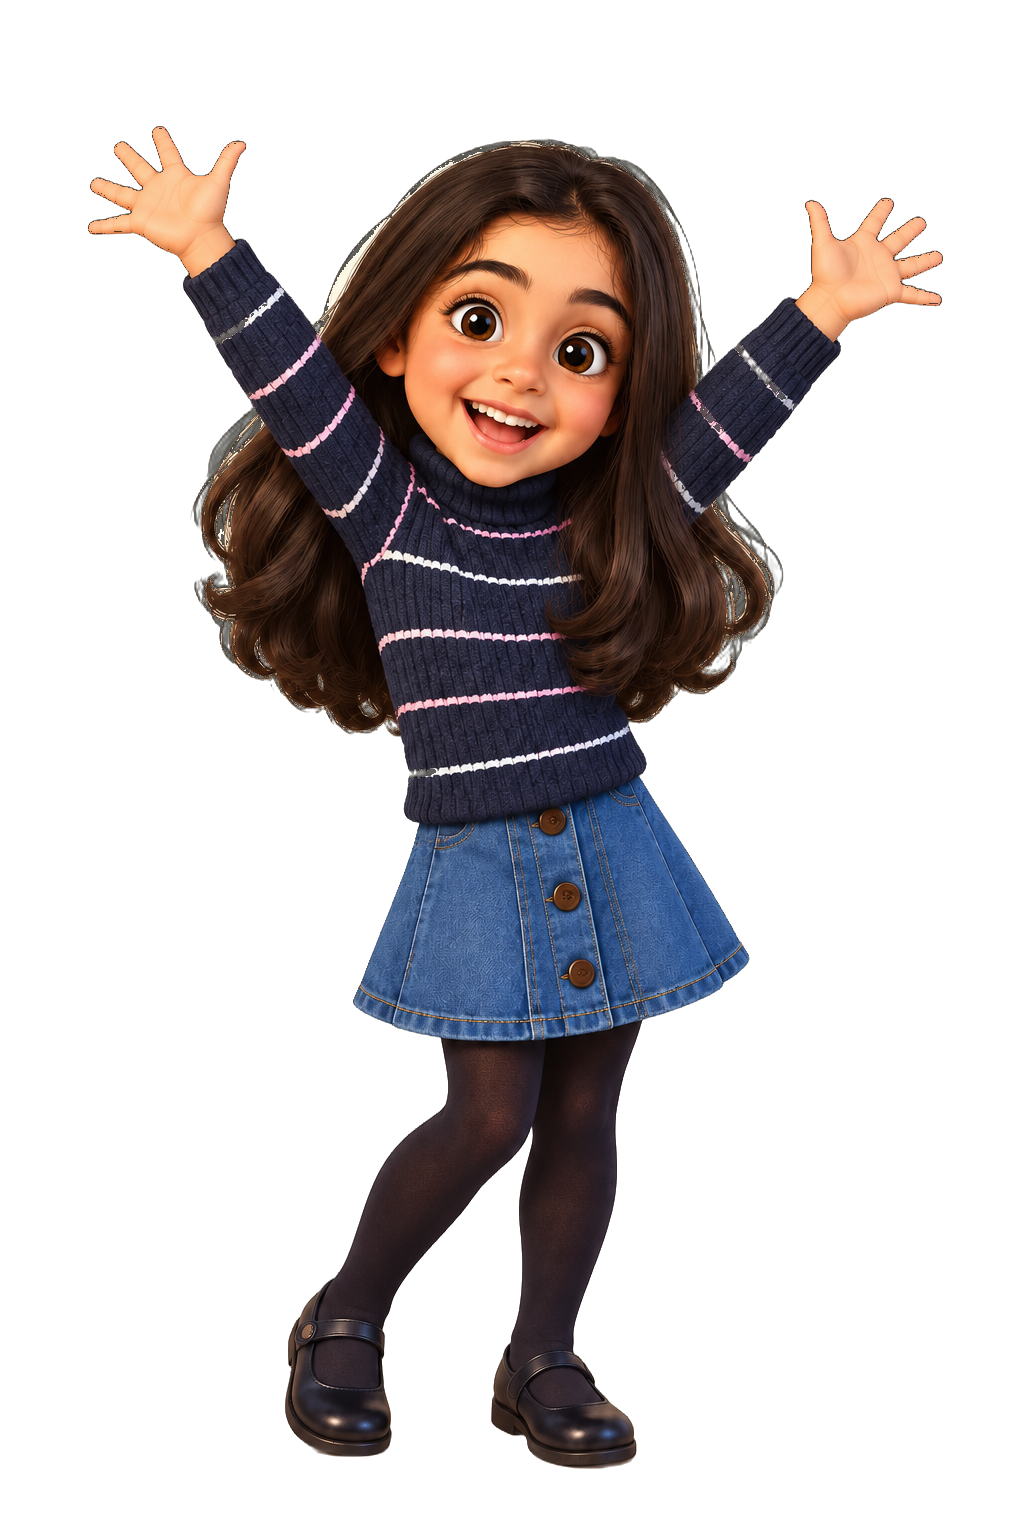
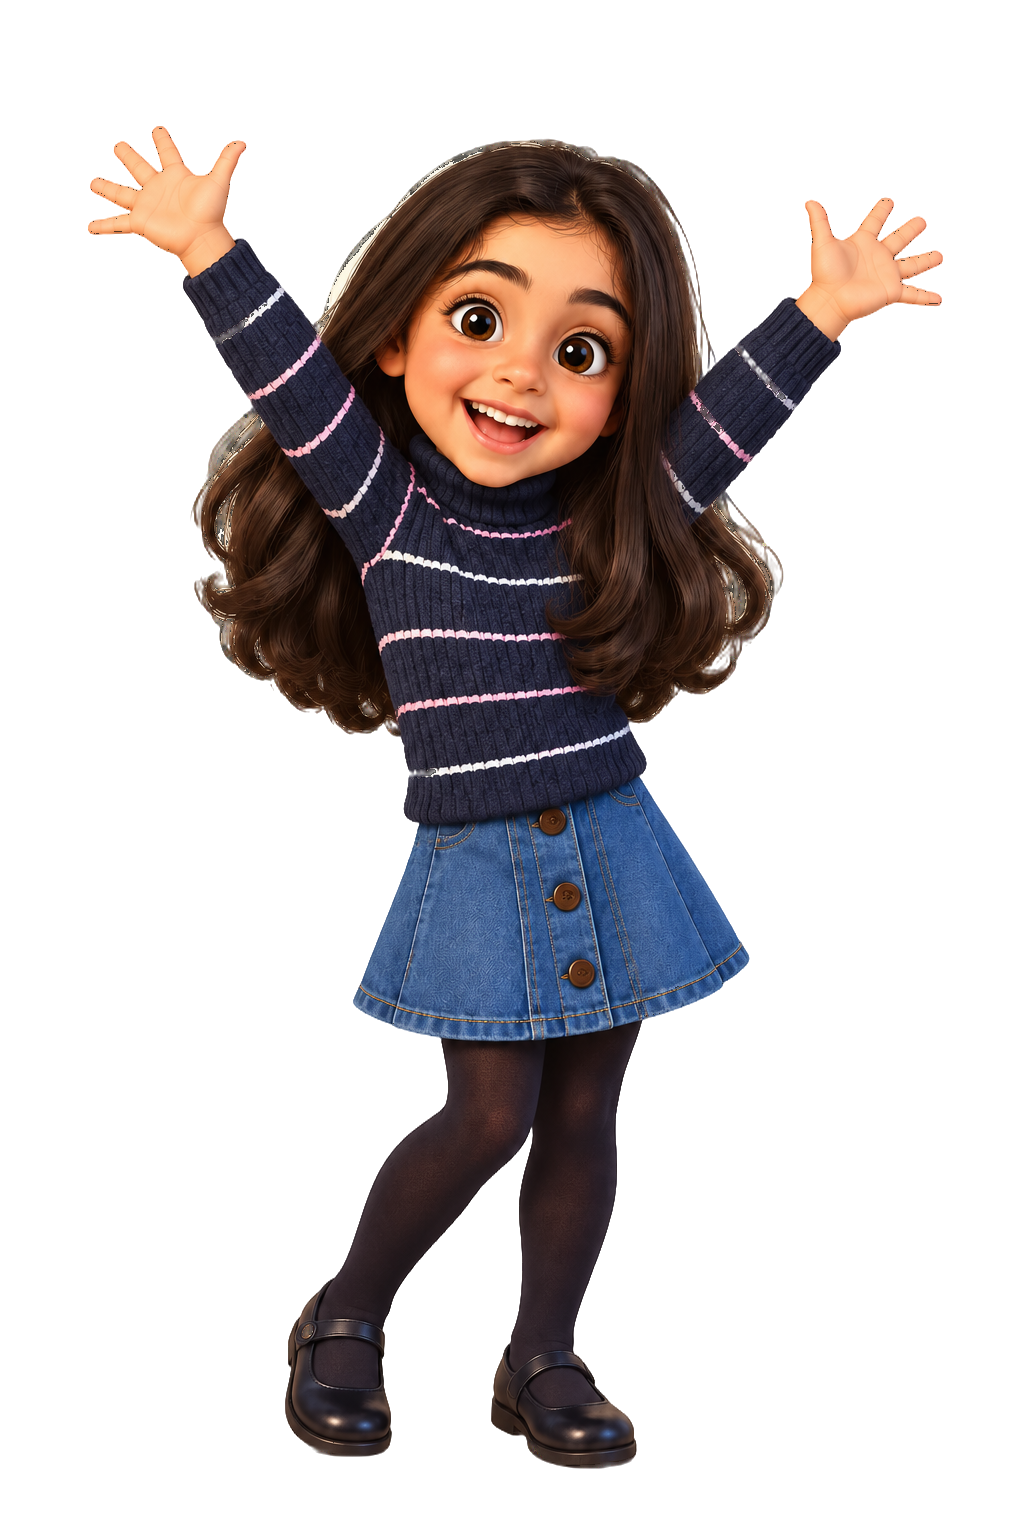
Tamara: clean hair edges (colour bleed), soft moonlight stage instead of a frame
Claude-Session: https://claude.ai/code/session_0114Uimhvuf5muvWEqvsNGmQ

diff --git a/.claude/skills/yt-kids-song/templates/kids-engine.html b/.claude/skills/yt-kids-song/templates/kids-engine.html
@@ -111,22 +111,22 @@ function poseAt(t) {
   return { pose: i % 2 ? 'sing' : 'open', since: l.start - 0.25 };
 }
 
-// Tamara's stage: a light card behind the photo puppet (hides the light fringe around her hair, frames her)
-function stageCard(t) {
-  const x = 60, y = 96, w = 720, h = 960, r = 44;
+// Tamara's stage: soft moonlight around her (no frame, no edges): a glow behind her that fades into the sky,
+// a pool of light at her feet and a few sparkles drifting up. Sam rejected a framed card as "cheap".
+function stageGlow(t) {
   c.save();
-  c.shadowColor = 'rgba(0,0,0,0.35)'; c.shadowBlur = 40; c.shadowOffsetY = 12;
-  const g = c.createLinearGradient(0, y, 0, y + h); g.addColorStop(0, '#FFF7EC'); g.addColorStop(0.65, '#FDEBF3'); g.addColorStop(1, '#F3E3FA');
-  c.fillStyle = g; c.beginPath(); c.roundRect(x, y, w, h, r); c.fill();
-  c.shadowColor = 'transparent';
-  c.save(); c.beginPath(); c.roundRect(x, y, w, h, r); c.clip();
-  const sp = c.createRadialGradient(430, 520, 40, 430, 520, 520); sp.addColorStop(0, 'rgba(255,255,255,0.75)'); sp.addColorStop(1, 'rgba(255,255,255,0)');
-  c.fillStyle = sp; c.fillRect(x, y, w, h); // soft spotlight
-  c.fillStyle = 'rgba(214,188,236,0.45)'; c.beginPath(); c.ellipse(430, y + h + 40, 420, 120, 0, 0, Math.PI * 2); c.fill(); // floor
-  for (let i = 0; i < 14; i++) { const sx = x + 40 + rand(i + 300) * (w - 80), sy = y + 40 + rand(i + 400) * (h * 0.55);
-    c.fillStyle = ['#FFD43B', '#FF8FB8', '#9AD7FF'][i % 3]; c.globalAlpha = 0.35 + 0.25 * Math.sin(t * 1.5 + i); star(sx, sy, 7 + (i % 3) * 3); }
-  c.restore();
-  c.globalAlpha = 1; c.strokeStyle = 'rgba(255,255,255,0.9)'; c.lineWidth = 6; c.beginPath(); c.roundRect(x, y, w, h, r); c.stroke();
+  const pulse = 1 + 0.03 * Math.sin(t * 0.9);
+  let g = c.createRadialGradient(430, 470, 30, 430, 520, 560 * pulse);
+  g.addColorStop(0, 'rgba(255,236,214,0.30)'); g.addColorStop(0.35, 'rgba(196,182,255,0.18)'); g.addColorStop(1, 'rgba(120,110,220,0)');
+  c.fillStyle = g; c.fillRect(0, 0, 1000, 1080);
+  g = c.createRadialGradient(430, 1035, 10, 430, 1035, 330);
+  g.addColorStop(0, 'rgba(255,240,220,0.42)'); g.addColorStop(0.5, 'rgba(210,195,255,0.16)'); g.addColorStop(1, 'rgba(210,195,255,0)');
+  c.save(); c.translate(430, 1035); c.scale(1, 0.2); c.translate(-430, -1035); c.fillStyle = g; c.beginPath(); c.arc(430, 1035, 330, 0, Math.PI * 2); c.fill(); c.restore();
+  for (let i = 0; i < 12; i++) { // sparkles drifting up around her
+    const ph = (t * 0.06 + rand(i + 700)) % 1, x = 430 + (rand(i + 710) - 0.5) * 620 + Math.sin(t * 0.7 + i) * 14, y = 1040 - ph * 900;
+    c.globalAlpha = Math.sin(ph * Math.PI) * (0.45 + 0.35 * Math.sin(t * 3 + i)); c.fillStyle = i % 3 ? '#FFF3D6' : '#E8DEFF';
+    star(x, y, 3 + (i % 3) * 2);
+  }
   c.restore();
 }
 
@@ -152,7 +152,7 @@ function draw(t) {
   const p = poseAt(t);
   const mouth = tamaraMouth(WORDS, t);
   if (S.host === 'photo') {
-    stageCard(t); // her real picture as a puppet (tamara-photo.js)
+    stageGlow(t); // her real picture as a puppet (tamara-photo.js)
     c.save(); c.translate(430, 1035); c.scale(0.59, 0.59);
     const q = photoPoseAt(t), prev = photoPoseAt(q.since - 0.02), k = ease((t - q.since) / 0.6);
     const on = !!q.dance, was = !!prev.dance;

diff --git a/youtube/kids-songs/2026-10-09-phases-of-the-moon/video.html b/youtube/kids-songs/2026-10-09-phases-of-the-moon/video.html
@@ -111,22 +111,22 @@ function poseAt(t) {
   return { pose: i % 2 ? 'sing' : 'open', since: l.start - 0.25 };
 }
 
-// Tamara's stage: a light card behind the photo puppet (hides the light fringe around her hair, frames her)
-function stageCard(t) {
-  const x = 60, y = 96, w = 720, h = 960, r = 44;
+// Tamara's stage: soft moonlight around her (no frame, no edges): a glow behind her that fades into the sky,
+// a pool of light at her feet and a few sparkles drifting up. Sam rejected a framed card as "cheap".
+function stageGlow(t) {
   c.save();
-  c.shadowColor = 'rgba(0,0,0,0.35)'; c.shadowBlur = 40; c.shadowOffsetY = 12;
-  const g = c.createLinearGradient(0, y, 0, y + h); g.addColorStop(0, '#FFF7EC'); g.addColorStop(0.65, '#FDEBF3'); g.addColorStop(1, '#F3E3FA');
-  c.fillStyle = g; c.beginPath(); c.roundRect(x, y, w, h, r); c.fill();
-  c.shadowColor = 'transparent';
-  c.save(); c.beginPath(); c.roundRect(x, y, w, h, r); c.clip();
-  const sp = c.createRadialGradient(430, 520, 40, 430, 520, 520); sp.addColorStop(0, 'rgba(255,255,255,0.75)'); sp.addColorStop(1, 'rgba(255,255,255,0)');
-  c.fillStyle = sp; c.fillRect(x, y, w, h); // soft spotlight
-  c.fillStyle = 'rgba(214,188,236,0.45)'; c.beginPath(); c.ellipse(430, y + h + 40, 420, 120, 0, 0, Math.PI * 2); c.fill(); // floor
-  for (let i = 0; i < 14; i++) { const sx = x + 40 + rand(i + 300) * (w - 80), sy = y + 40 + rand(i + 400) * (h * 0.55);
-    c.fillStyle = ['#FFD43B', '#FF8FB8', '#9AD7FF'][i % 3]; c.globalAlpha = 0.35 + 0.25 * Math.sin(t * 1.5 + i); star(sx, sy, 7 + (i % 3) * 3); }
-  c.restore();
-  c.globalAlpha = 1; c.strokeStyle = 'rgba(255,255,255,0.9)'; c.lineWidth = 6; c.beginPath(); c.roundRect(x, y, w, h, r); c.stroke();
+  const pulse = 1 + 0.03 * Math.sin(t * 0.9);
+  let g = c.createRadialGradient(430, 470, 30, 430, 520, 560 * pulse);
+  g.addColorStop(0, 'rgba(255,236,214,0.30)'); g.addColorStop(0.35, 'rgba(196,182,255,0.18)'); g.addColorStop(1, 'rgba(120,110,220,0)');
+  c.fillStyle = g; c.fillRect(0, 0, 1000, 1080);
+  g = c.createRadialGradient(430, 1035, 10, 430, 1035, 330);
+  g.addColorStop(0, 'rgba(255,240,220,0.42)'); g.addColorStop(0.5, 'rgba(210,195,255,0.16)'); g.addColorStop(1, 'rgba(210,195,255,0)');
+  c.save(); c.translate(430, 1035); c.scale(1, 0.2); c.translate(-430, -1035); c.fillStyle = g; c.beginPath(); c.arc(430, 1035, 330, 0, Math.PI * 2); c.fill(); c.restore();
+  for (let i = 0; i < 12; i++) { // sparkles drifting up around her
+    const ph = (t * 0.06 + rand(i + 700)) % 1, x = 430 + (rand(i + 710) - 0.5) * 620 + Math.sin(t * 0.7 + i) * 14, y = 1040 - ph * 900;
+    c.globalAlpha = Math.sin(ph * Math.PI) * (0.45 + 0.35 * Math.sin(t * 3 + i)); c.fillStyle = i % 3 ? '#FFF3D6' : '#E8DEFF';
+    star(x, y, 3 + (i % 3) * 2);
+  }
   c.restore();
 }
 
@@ -152,7 +152,7 @@ function draw(t) {
   const p = poseAt(t);
   const mouth = tamaraMouth(WORDS, t);
   if (S.host === 'photo') {
-    stageCard(t); // her real picture as a puppet (tamara-photo.js)
+    stageGlow(t); // her real picture as a puppet (tamara-photo.js)
     c.save(); c.translate(430, 1035); c.scale(0.59, 0.59);
     const q = photoPoseAt(t), prev = photoPoseAt(q.since - 0.02), k = ease((t - q.since) / 0.6);
     const on = !!q.dance, was = !!prev.dance;

diff --git a/.claude/skills/yt-kids-song/scripts/fix_edges.py b/.claude/skills/yt-kids-song/scripts/fix_edges.py
@@ -1,0 +1,24 @@
+#!/usr/bin/env python3
+"""Remove the light background fringe from cutouts: every semi-transparent edge pixel takes its colour from the
+opaque pixels next to it (colour bleed: blur(rgb*alpha)/blur(alpha)), so hair edges stay dark on any background.
+usage: fix_edges.py <cutout.png> [...]   (edits in place)"""
+import sys
+import numpy as np
+from PIL import Image, ImageFilter
+for f in sys.argv[1:]:
+    im = Image.open(f).convert("RGBA"); a = np.asarray(im).astype(np.float32)
+    al = a[..., 3:] / 255
+    solid = (al > 0.95).astype(np.float32)
+    num = np.zeros_like(a[..., :3]); den = np.zeros_like(al)
+    for r in (2, 5, 10):  # wider radii fill pixels further from solid ones
+        pr = Image.fromarray(np.uint8(np.clip(a[..., :3] * solid, 0, 255)))
+        pw = Image.fromarray(np.uint8(solid[..., 0] * 255))
+        n = np.asarray(pr.filter(ImageFilter.GaussianBlur(r))).astype(np.float32)
+        d = np.asarray(pw.filter(ImageFilter.GaussianBlur(r))).astype(np.float32)[..., None] / 255
+        take = (den < 0.02) & (d >= 0.02)
+        num = np.where(take, n, num); den = np.where(take, d, den)
+    bleed = num / np.maximum(den, 1e-3)
+    edge = (al < 0.95)
+    rgb = np.where(edge, bleed, a[..., :3])
+    out = np.concatenate([np.clip(rgb, 0, 255), a[..., 3:]], -1).astype(np.uint8)
+    Image.fromarray(out).save(f); print("fixed", f)

diff --git a/.claude/skills/yt-kids-song/SKILL.md b/.claude/skills/yt-kids-song/SKILL.md
@@ -47,7 +47,7 @@ Poses: `youtube/kids-songs/characters/tamara/` holds Sam's pictures (sing, point
 - `sing2` + `sing2-mid` / `sing2-open` / `sing2-eyes`: the same picture with a half-open mouth, open mouth and closed eyes. Default pose for sung lines: real lip sync (mouth area blended between the three by the sung words) and real blinks.
 - gestures: `book`, `hello`, `point` (up), `pointL`, `pointR`, `shrug`, `think`, `count`, `thumbs`, `cheer`, `clap`, `wave`, `sleep`
 - dance flipbook: `dance1`–`dance8` (from Sam's dance sheet; `jump` is not used, Sam said it looked too small); in choruses and instrumental gaps the engine switches to the next move every 2 beats.
-- Tamara stands on a light rounded card (`stageCard()` in the engine, left side): it hides the light fringe around her hair on the dark sky. Keep it for photo-puppet videos.
+- Stage: soft moonlight glow + light pool + drifting sparkles behind her (`stageGlow()`); Sam rejected a framed card as cheap. Cutouts get `fix_edges.py` (edge pixels take the colour of the hair next to them) so no light fringe shows on the dark sky; pictures cut from a sheet on white may also need the grey rim peeled.
 - Choreography: `photoPoseAt()` in the engine (intro book → hello, sung lines sing2, choruses dance, ending hello → sleep) plus the song's `VIS.photoPose(t, line)` for gestures on matching lyrics (e.g. pointR at the moon on each phase name, then back to sing2).
 - New pose: `add_pose.py <character-dir> <name> <picture>` (cutout, depth map, estimated landmarks). For lip sync/blinks on a new base pose, Sam makes the same picture with mouth half-open, open, and eyes closed; add `variants`, `mouthMask`, `eyeMasks` to poses.json.
    - No photos of real children, no real people.
